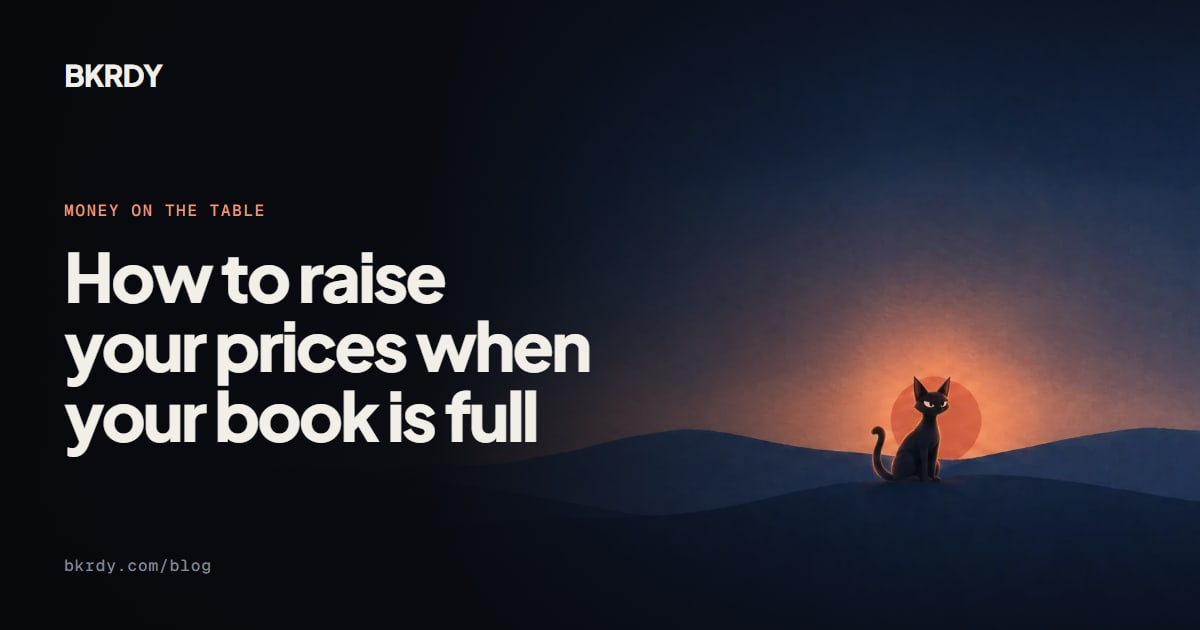
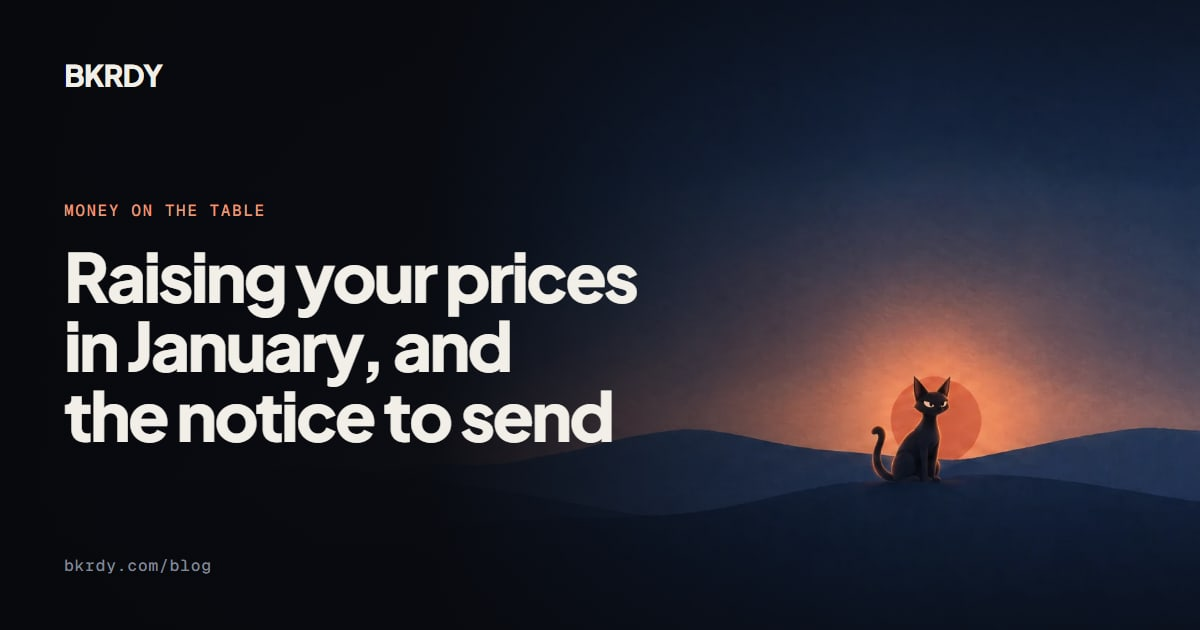
Blog: December update, gift cards and January prices
- New draft for Nov 25: Salon gift cards, set them up before December fills
  ("salon gift card" goes from about 720 searches a month to 2,900 in December)
- Price article re-angled to January with the price increase notice
- Vagaro vs Fresha moved to Dec 24, booking QR code to Dec 28

Changed region(s): [[0.0308, 0.3921, 0.555, 0.7238]]

diff --git a/content/blog/salon-gift-cards.md b/content/blog/salon-gift-cards.md
@@ -1,0 +1,102 @@
+---
+key: salon-gift-cards
+section: blog
+slug: salon-gift-cards
+title: Salon gift cards: set them up before December fills
+metaTitle: Salon gift cards: set them up before December fills | BKRDY
+description: How to sell gift cards from your salon before the holidays: which amounts, expiry, a bonus offer that costs no discount, and where to put the link.
+date: 2026-11-25
+pillar: money
+keywords: salon gift card, gift cards for salon, holiday gift card promotion, salon gift card template, salon holiday promotion ideas
+photoTerms: hairstylist handing gift card to client at salon reception | nail technician wrapping gift card in beauty salon | spa receptionist holiday gift card counter
+status: draft
+---
+
+A gift card is the one thing you can sell in December without adding a single appointment to a calendar that is already full. Someone pays you now, and the work arrives in January, which for most studios is the quietest month of the year.
+
+That is why it is worth setting up this week rather than the week before Christmas, when the people buying them have already bought something else.
+
+:::answer
+Turn on online gift cards before December, offer three amounts tied to your real services, and decide on expiry before you sell the first one. Put the link where gift buyers already look, your site and your Instagram, and tell your regulars in person. The money arrives now and the appointments land in January, so treat it as owed work, not spare cash.
+:::
+
+## Why December, and why it helps January
+
+Gift card buyers are mostly not your clients. They are the people who love your clients and want to give them something they will actually use. They are shopping in late November and December, and they want to buy at 11pm without phoning anyone.
+
+The appointments those cards turn into mostly come in January and February, after the holidays, when bookings thin out. So a card sold in December quietly moves work from your busiest month into your slowest one. That is the real reason to do this, more than the money arriving early.
+
+## Pick three amounts, not ten
+
+![Five steps to set up gift cards before the holidays: turn them on early, offer three amounts that match real services, decide on expiry first, put the link where gift buyers look, and tell regulars in person.](/images/blog/salon-gift-cards-setup-night.webp)
+
+A buyer standing at the choice needs it to be easy. Three amounts is enough, and each should match something real on your menu, so the recipient can book a whole service rather than a fraction of one.
+
+For example, if a fill is $55, a full set $85 and a full set with nail art $110, offer cards at $55, $85 and $110. The buyer is choosing a gift, not doing arithmetic.
+
+You can also let people type their own amount, with a minimum and a maximum. That suits a buyer who wants to cover part of something, but it is a second decision for someone who came to make one. Start with three presets and add a custom amount only if people ask for it.
+
+On BKRDY, gift cards are on paid plans: you turn them on, set your amounts, and the card is emailed to the person it is for, with the buyer's message, the moment it is bought. You can also add a gift card link to your site's header and change the wording of that email.
+
+## Decide on expiry before you sell one
+
+Pick this before the first sale, because changing the rule afterwards means two kinds of card in circulation.
+
+The simplest choice is no expiry at all. Nobody is caught out, there is nothing to explain, and you never have the conversation with someone holding a card from two years ago.
+
+If you do want one, know that gift card expiry is regulated, federally and by state, so check the rules that apply to you before you set it. Whatever you choose, say it plainly where people buy.
+
+## Put the link where gift buyers already are
+
+The buyer is usually a partner, a friend or a parent, and they will not find a gift card hidden three clicks into your site. Put it where they are already looking.
+
+- **The top of your booking site.** A link in the header, visible on a phone without scrolling.
+- **Your Instagram.** One post in late November and a reminder in mid December, plus the link in your bio for the month.
+- **In person.** Mention it at every December appointment. "If anyone asks what to get you, I do gift cards" is a sentence most clients are glad to pass on.
+- **At the counter.** A small sign with your booking link or a QR code for anyone who walks in.
+
+Tell people by hand. A message to a few regulars who you know buy gifts is worth more than a broadcast nobody opens.
+
+## The holiday offer that costs you no discount
+
+A discount on a gift card is a discount on work you will do in January at full effort. There is a better offer: a bonus card.
+
+Someone buys a $100 card, and you give them a separate $20 card on top, to keep or give away. They feel they got $120. You took $100 now, and the extra $20 is for a future visit, often from a new client, in a quiet month.
+
+You give the bonus card by hand after the sale, so set an end date for the offer and stick to it. The trade-off is real: it is still $20 of work you will not be paid for, so only do it if your January really is slow. If your January is full, skip the offer and just sell the cards.
+
+## Tell buyers when the card arrives
+
+A buyer giving a gift on Christmas morning does not want the card in the recipient's inbox on the 12th. Tell them how it works before they pay.
+
+If your cards are emailed when they are bought, the easy fix is for the buyer to put their own email in, then print it or forward it on the day. One line on your gift card page saves you a lot of awkward messages.
+
+## The part to be honest with yourself about
+
+Gift card money is money you have collected but not earned yet. Every card is an appointment you owe. If you spend December's gift card money in December, January arrives with a full book and no money for the month.
+
+The simple habit is to keep a running total of the cards you have sold and not yet seen redeemed, so you always know what you owe. And plan for the January rush: those cards come in all at once, often in the first two weeks, so leave room for them rather than filling January with your usual bookings before they land.
+
+Here is a post you can use this week. Change the amounts and the dates to your own.
+
+:::copy Gift card post
+Gift cards are open for the holidays. Choose $55, $85 or $110, and it goes straight to them by email with your message.
+
+Buying for Christmas morning? Put your own email in and forward it on the day.
+
+Link in bio. Thank you for supporting a small studio this year.
+:::
+
+## Questions
+
+### How do I sell gift cards for my salon?
+
+Turn on online gift cards on your booking site, offer three amounts that match real services, decide on expiry first, and put the link in your site header and your Instagram bio. Mention it at every December appointment.
+
+### What amounts should salon gift cards be?
+
+Match them to services on your menu, so the person receiving one can book a whole service. Three amounts is enough. Add a custom amount only if buyers ask for it.
+
+### Should salon gift cards expire?
+
+No expiry is the simplest choice and avoids any awkward conversation later. If you want one, gift card expiry is regulated federally and by state, so check the rules before you set it.

diff --git a/content/blog/how-to-raise-your-prices.md b/content/blog/how-to-raise-your-prices.md
@@ -2,12 +2,12 @@
 key: how-to-raise-your-prices
 section: blog
 slug: how-to-raise-your-prices
-title: How to raise your prices when your book is full
-metaTitle: How to raise your prices when your book is full | BKRDY
-description: How to tell it is time to raise your prices, how much, who goes first, how much notice to give, what to do with regulars, and the message to send.
+title: Raising your prices in January, and the notice to send
+metaTitle: Raising your prices in January, and the notice to send | BKRDY
+description: When to raise your prices, how much, who goes first, what regulars get, and the price increase notice to send clients before January.
 date: 2026-12-18
 pillar: money
-keywords: how to charge for my services, how to price your services as a freelancer
+keywords: price increase notice salon, salon price increase letter, how to charge for my services, how to price your services as a freelancer
 photoTerms: esthetician performing facial on client in spa room | lash artist applying extensions to client in studio | barber finishing fade on client in barbershop
 status: draft
 ---
@@ -19,6 +19,12 @@ That is the whole case. The hard part is the message, the regulars, and the week
 :::answer
 Raise your prices when your book is full or nearly full most weeks and you are turning people away. Pick an increase you can say in one line, give two to four weeks' notice with a date, keep already booked appointments at the old price, and decide in advance what your longest-standing regulars get. Expect a few clients to leave. If your book is thin, do not raise yet.
 :::
+
+## Why January is the easy moment
+
+A new year is when clients expect prices to move, so a change in January reads as routine rather than personal. And December is usually your busiest month, which means most of your regulars are in your chair in the weeks before it, where you can tell them face to face.
+
+So the timing that works: decide in early December, tell people at their December appointments and in one message, and start the new prices in the first or second week of January. Your December bookings keep the old price, which takes the sting out of it.
 
 ## How to tell it is time
 
@@ -74,7 +80,7 @@ What not to do is promise a permanent old price. In a year or two your most loya
 
 Short, warm, and without an apology. Say what changes, when, and that their booked appointments are safe. Do not explain your rent.
 
-:::copy Price increase message
+:::copy Price increase notice
 Hi Renee, a quick note: from Monday, January 11, my prices are changing. A gel set will be $70 and a fill $55. Anything you have already booked stays at the current price. Thank you for being a regular. It means a lot. My booking page has the full new list.
 :::
 

diff --git a/content/blog/booking-qr-code.md b/content/blog/booking-qr-code.md
@@ -5,7 +5,7 @@ slug: booking-qr-code
 title: A booking QR code: where to put it and what it should open
 metaTitle: A booking QR code: where to put it and what it should open | BKRDY
 description: Put a QR code for your booking page where clients already stand: the mirror, the counter, the card. What it should open, how to test it, and the catch.
-date: 2026-12-24
+date: 2026-12-28
 pillar: your-site
 keywords: booking qr code, qr code for booking appointments
 photoTerms: barber showing client finished cut in station mirror | hair stylist styling client hair salon mirror reflection | braider handing business card to client after appointment

diff --git a/content/blog/vagaro-vs-fresha.md b/content/blog/vagaro-vs-fresha.md
@@ -5,7 +5,7 @@ slug: vagaro-vs-fresha
 title: Vagaro vs Fresha: fees, the marketplace and who each suits
 metaTitle: Vagaro vs Fresha: fees, the marketplace and who each suits | BKRDY
 description: Vagaro or Fresha: how each one makes its money, what the marketplace gives and takes, how deep each goes, and when neither is the right answer.
-date: 2026-11-25
+date: 2026-12-24
 pillar: switching
 keywords: vagaro vs fresha, compare vagaro and fresha on fees marketplace and feature depth
 photoTerms: hair stylist cutting client hair salon natural light | braider braiding client hair home studio | barber shop front desk client paying
